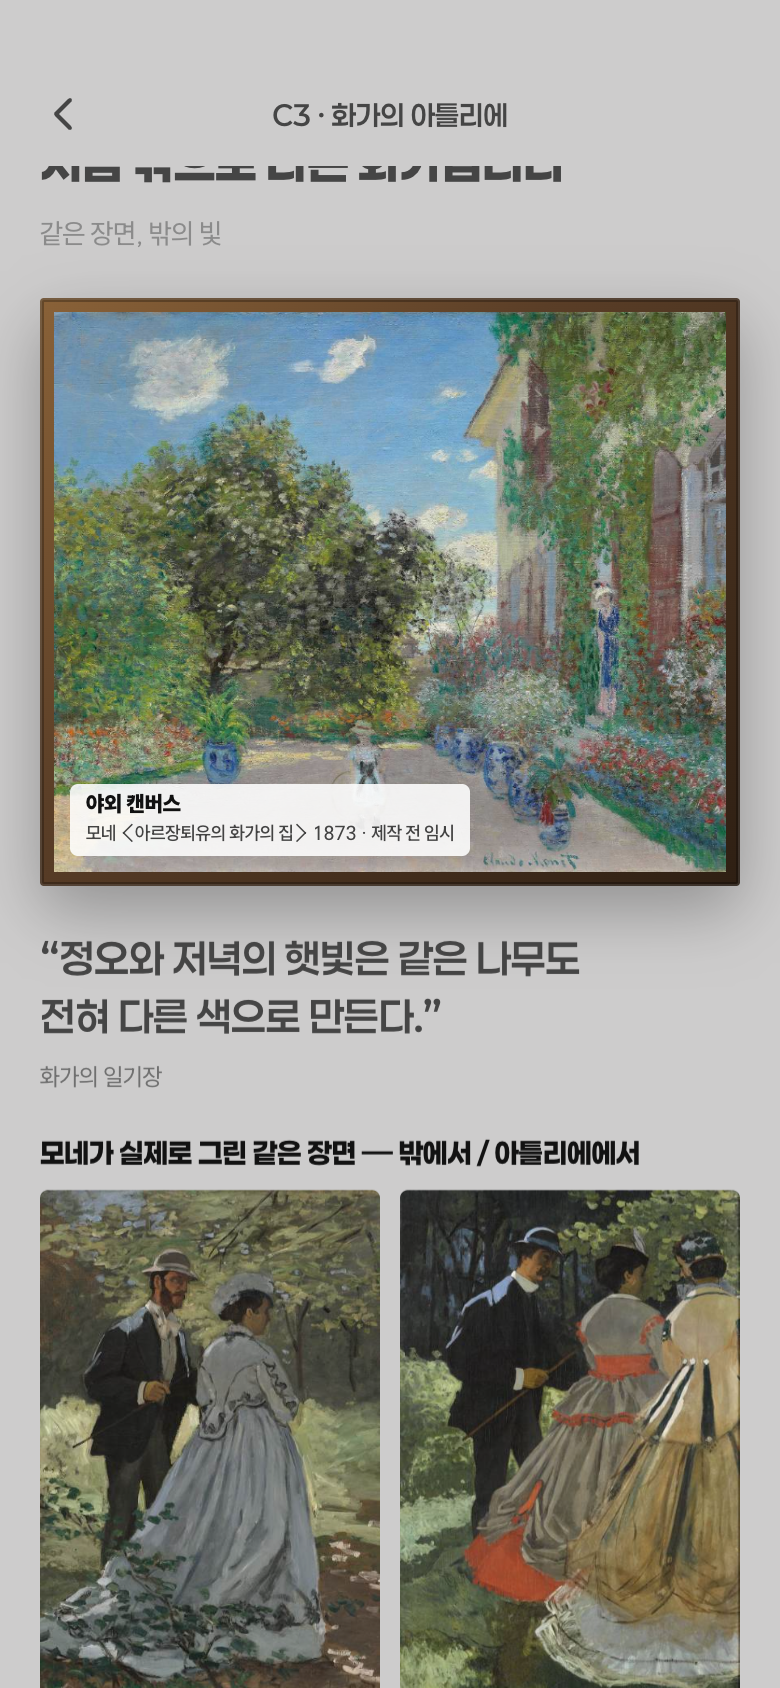
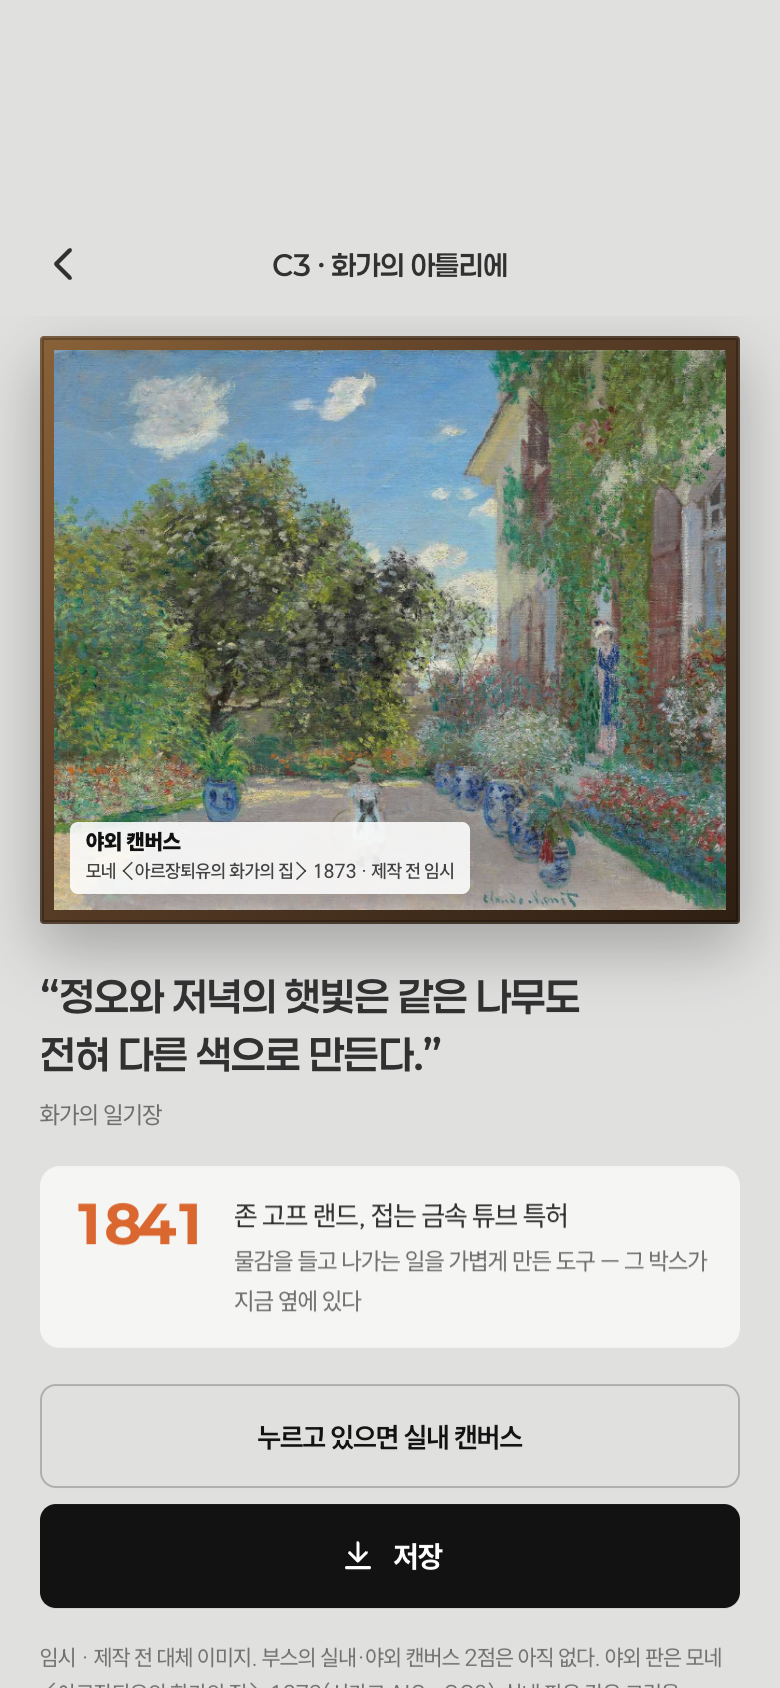
C3: 완성 뒤 '실제 그림 쌍' 패널 제거 (팔레트 변화가 아니라 습작/완성 차이라 의미 없음)

diff --git a/design/experience-v2/proto/c3.html b/design/experience-v2/proto/c3.html
@@ -58,20 +58,6 @@
       <p>“정오와 저녁의 햇빛은 같은 나무도<br>전혀 다른 색으로 만든다.”</p>
       <cite>화가의 일기장</cite>
     </blockquote>
-    <!-- 모네가 실제로 남긴 같은 장면의 쌍 — 밖에서 그린 습작 / 아틀리에에서 완성한 큰 그림의 조각 (같은 두 인물로 잘라 비교) -->
-    <section class="real rise" style="--i:1" aria-label="모네가 실제로 그린 같은 장면">
-      <h2 class="real-hd">모네가 실제로 그린 같은 장면 — 밖에서 / 아틀리에에서</h2>
-      <div class="real-pair">
-        <figure>
-          <img src="img/c3-real-1865-study.jpg" alt="모네 〈바지유와 카미유〉 1865, 야외 습작, 워싱턴 내셔널 갤러리" loading="lazy" decoding="async">
-          <figcaption><b>그 자리에서 · 1865</b><span>퐁텐블로 숲에서 짧고 빠른 붓질로 기록한 습작. 빛이 옷에 닿는 모습이 그대로.</span><cite>〈바지유와 카미유〉 · 워싱턴 NGA 1970.17.41 · 퍼블릭 도메인</cite></figcaption>
-        </figure>
-        <figure>
-          <img src="img/c3-real-1866-studio.jpg" alt="모네 〈풀밭 위의 점심〉 왼쪽 조각 1865–66, 아틀리에 완성, 오르세" loading="lazy" decoding="async">
-          <figcaption><b>아틀리에에서 · 1865–66</b><span>파리 아틀리에에서 같은 두 사람을 큰 화면에 옮겨 마감. 면이 고르고 윤곽이 정리됐다.</span><cite>〈풀밭 위의 점심〉 왼쪽 조각 · 오르세 RF 1957 7 · 퍼블릭 도메인</cite></figcaption>
-        </figure>
-      </div>
-    </section>
     <div class="fact rise" style="--i:2">
       <b>1841</b>
       <div><p>존 고프 랜드, 접는 금속 튜브 특허</p><p class="muted">물감을 들고 나가는 일을 가볍게 만든 도구 — 그 박스가 지금 옆에 있다</p></div>
